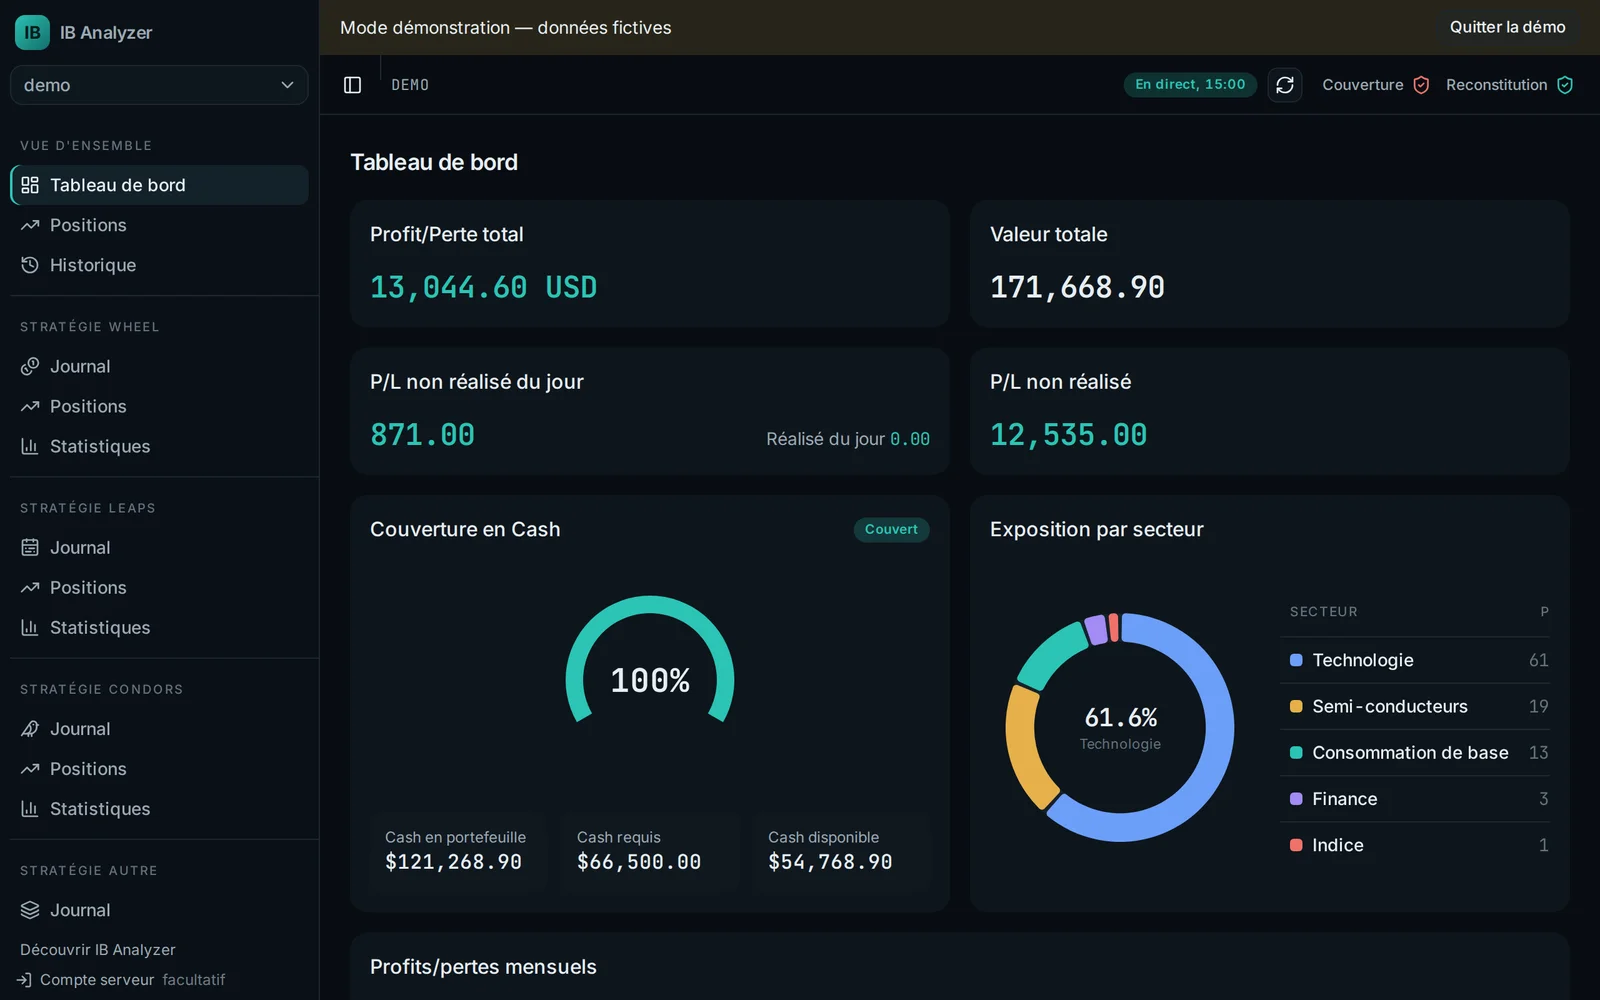
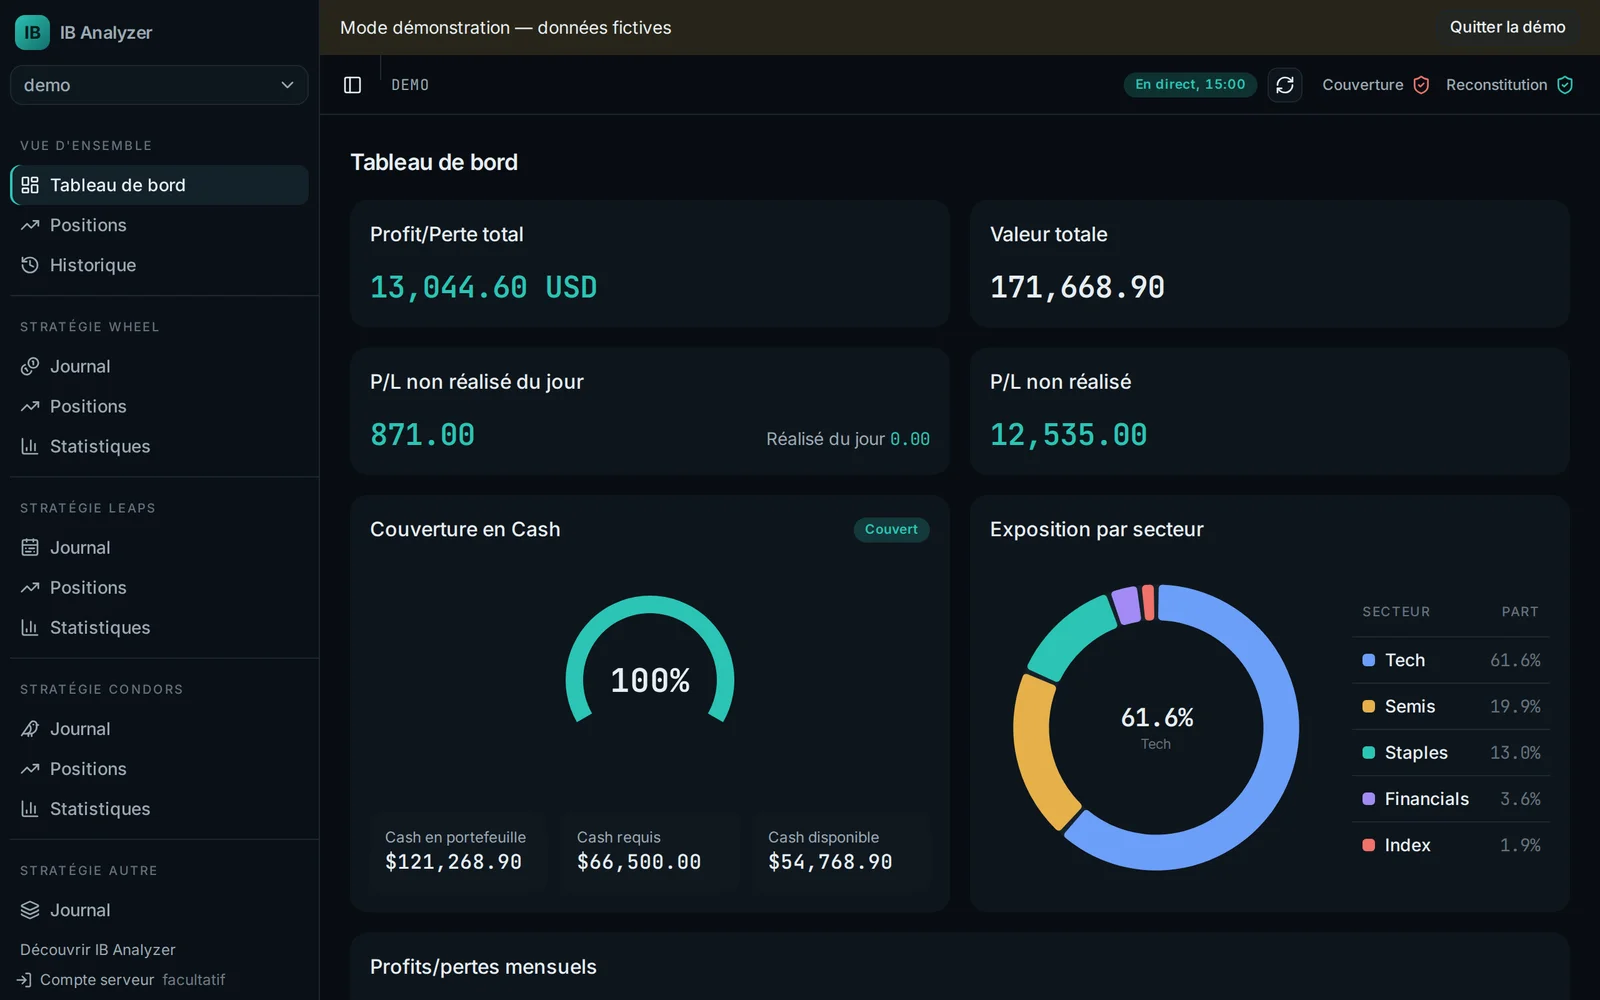
Accueil : secteurs courts de la démo, captures défilées vers ce qu'elles montrent

diff --git a/apps/web/src/demo/seed.ts b/apps/web/src/demo/seed.ts
@@ -4,16 +4,20 @@ import { mergeSectorsInto, type SectorCsvRow } from "@/db/sectors";
 import { DEMO_ACCOUNT_ID } from "@/demo/mode";
 import { DEMO_IB_ACCOUNT, generateDemo } from "@/demo/generate";
 
-/** The demo's sector table: every ticker of the scenario, with a category and a score (status left empty, "no status"). */
+/**
+ * The demo's sector table: every ticker of the scenario. Short English sectors, read alike in both
+ * languages and narrow enough for the Sector column; every row "on", so the dashboard's position
+ * suggestion has candidates (score ≥ MIN_SUGGESTION_SCORE, DIS below on purpose).
+ */
 export const DEMO_SECTORS: readonly SectorCsvRow[] = [
-  { ticker: "AAPL", name: "Apple", category: "Technologie", score: 8, status: "" },
-  { ticker: "AMD", name: "Advanced Micro Devices", category: "Semi-conducteurs", score: 6, status: "" },
-  { ticker: "KO", name: "Coca-Cola", category: "Consommation de base", score: 7, status: "" },
-  { ticker: "MSFT", name: "Microsoft", category: "Technologie", score: 9, status: "" },
-  { ticker: "NVDA", name: "NVIDIA", category: "Semi-conducteurs", score: 8, status: "" },
-  { ticker: "JPM", name: "JPMorgan Chase", category: "Finance", score: 7, status: "" },
-  { ticker: "DIS", name: "Walt Disney", category: "Communication", score: 5, status: "" },
-  { ticker: "XSP", name: "Mini-SPX", category: "Indice", score: 7, status: "" },
+  { ticker: "AAPL", name: "Apple", category: "Tech", score: 8, status: "on" },
+  { ticker: "AMD", name: "Advanced Micro Devices", category: "Semis", score: 6, status: "on" },
+  { ticker: "KO", name: "Coca-Cola", category: "Staples", score: 7, status: "on" },
+  { ticker: "MSFT", name: "Microsoft", category: "Tech", score: 9, status: "on" },
+  { ticker: "NVDA", name: "NVIDIA", category: "Semis", score: 8, status: "on" },
+  { ticker: "JPM", name: "JPMorgan Chase", category: "Financials", score: 7, status: "on" },
+  { ticker: "DIS", name: "Walt Disney", category: "Media", score: 5, status: "on" },
+  { ticker: "XSP", name: "Mini-SPX", category: "Index", score: 7, status: "on" },
 ];
 
 /** Writes the demo account on an empty demo base, once, in one transaction (sub-project 41, spec §4.2). */

diff --git a/apps/web/src/welcome/shots.ts b/apps/web/src/welcome/shots.ts
@@ -11,7 +11,12 @@ export interface ShotSpec {
   route: string;
   /** CSS selector that must be visible before the capture. */
   waitFor: string;
-  prepare?: "expand-first-condor" | "open-first-chart";
+  prepare?: "expand-first-condor" | "open-first-chart" | "collapse-sidebar";
+  /**
+   * CSS selector scrolled to the top of the viewport, after `prepare`, before the capture: the part
+   * worth showing sits below the fold. The demo banner may scroll away with it.
+   */
+  scrollTo?: string;
 }
 
 export const SHOT_WIDTH = 1600;
@@ -23,8 +28,24 @@ export const SHOT_LANGUAGES = ["fr", "en"] as const;
 // (the history table is a real <table>, virtualised).
 export const SHOTS: readonly ShotSpec[] = [
   { id: "dashboard", route: "/accounts/demo/dashboard", waitFor: "main h1" },
-  { id: "positions", route: "/accounts/demo/positions", waitFor: "main table" },
-  { id: "wheel", route: "/accounts/demo/positions/wheel", waitFor: "main table", prepare: "open-first-chart" },
+  // The sold options carry the coverage and buy-back decision badges, the last two of the thirteen
+  // columns: the sidebar folds so the whole table fits. FilteredTableBox labels its card by its
+  // translated title, and the language is switched after the page loads: both titles.
+  {
+    id: "positions",
+    route: "/accounts/demo/positions",
+    waitFor: "main table",
+    prepare: "collapse-sidebar",
+    scrollTo: `main [aria-label="Ventes d'options"], main [aria-label="Option sells"]`,
+  },
+  // The table that holds the opened chart, from its column headers: the whole chart fits under them.
+  {
+    id: "wheel",
+    route: "/accounts/demo/positions/wheel",
+    waitFor: "main table",
+    prepare: "open-first-chart",
+    scrollTo: "main table:has([data-testid=position-chart-row]) thead",
+  },
   { id: "journal-wheel", route: "/accounts/demo/journal/wheel", waitFor: "main table" },
   { id: "condors", route: "/accounts/demo/positions/condors", waitFor: "main table", prepare: "expand-first-condor" },
   { id: "history", route: "/accounts/demo/history", waitFor: "main table" },

diff --git a/apps/web/src/demo/seed.test.ts b/apps/web/src/demo/seed.test.ts
@@ -1,5 +1,6 @@
 import { afterEach, beforeEach, expect, it, vi } from "vitest";
 import { db } from "@/db/schema";
+import { positionSuggestions } from "@ib/coverage";
 import { ensureDemoSeeded } from "@/demo/seed";
 import { syncAgent } from "@/agent/sync";
 import { fetchBars, fetchQuotes, fetchSnapshot, probeAgent } from "@/agent/client";
@@ -40,4 +41,20 @@ it("never calls the real agent in the demo, and a full pass goes through the rea
   expect((await fetchBars(7496, "AAPL")).ok).toBe(true);
   expect((await fetchQuotes(7496, ["AAPL"])).ok).toBe(true);
   expect(spy).not.toHaveBeenCalled();
+});
+
+it("gives the demo sector table short English sectors, every row on, so the dashboard has suggestions", async () => {
+  await ensureDemoSeeded(db, NOW);
+  const rows = await db.sectors.toArray();
+  expect(rows.map((r) => [r.ticker, r.category, r.status]).sort()).toEqual([
+    ["AAPL", "Tech", "on"],
+    ["AMD", "Semis", "on"],
+    ["DIS", "Media", "on"],
+    ["JPM", "Financials", "on"],
+    ["KO", "Staples", "on"],
+    ["MSFT", "Tech", "on"],
+    ["NVDA", "Semis", "on"],
+    ["XSP", "Index", "on"],
+  ]);
+  expect(positionSuggestions(rows, null).map((s) => s.ticker)).toEqual(expect.arrayContaining(["AAPL", "MSFT", "XSP", "JPM"]));
 });
